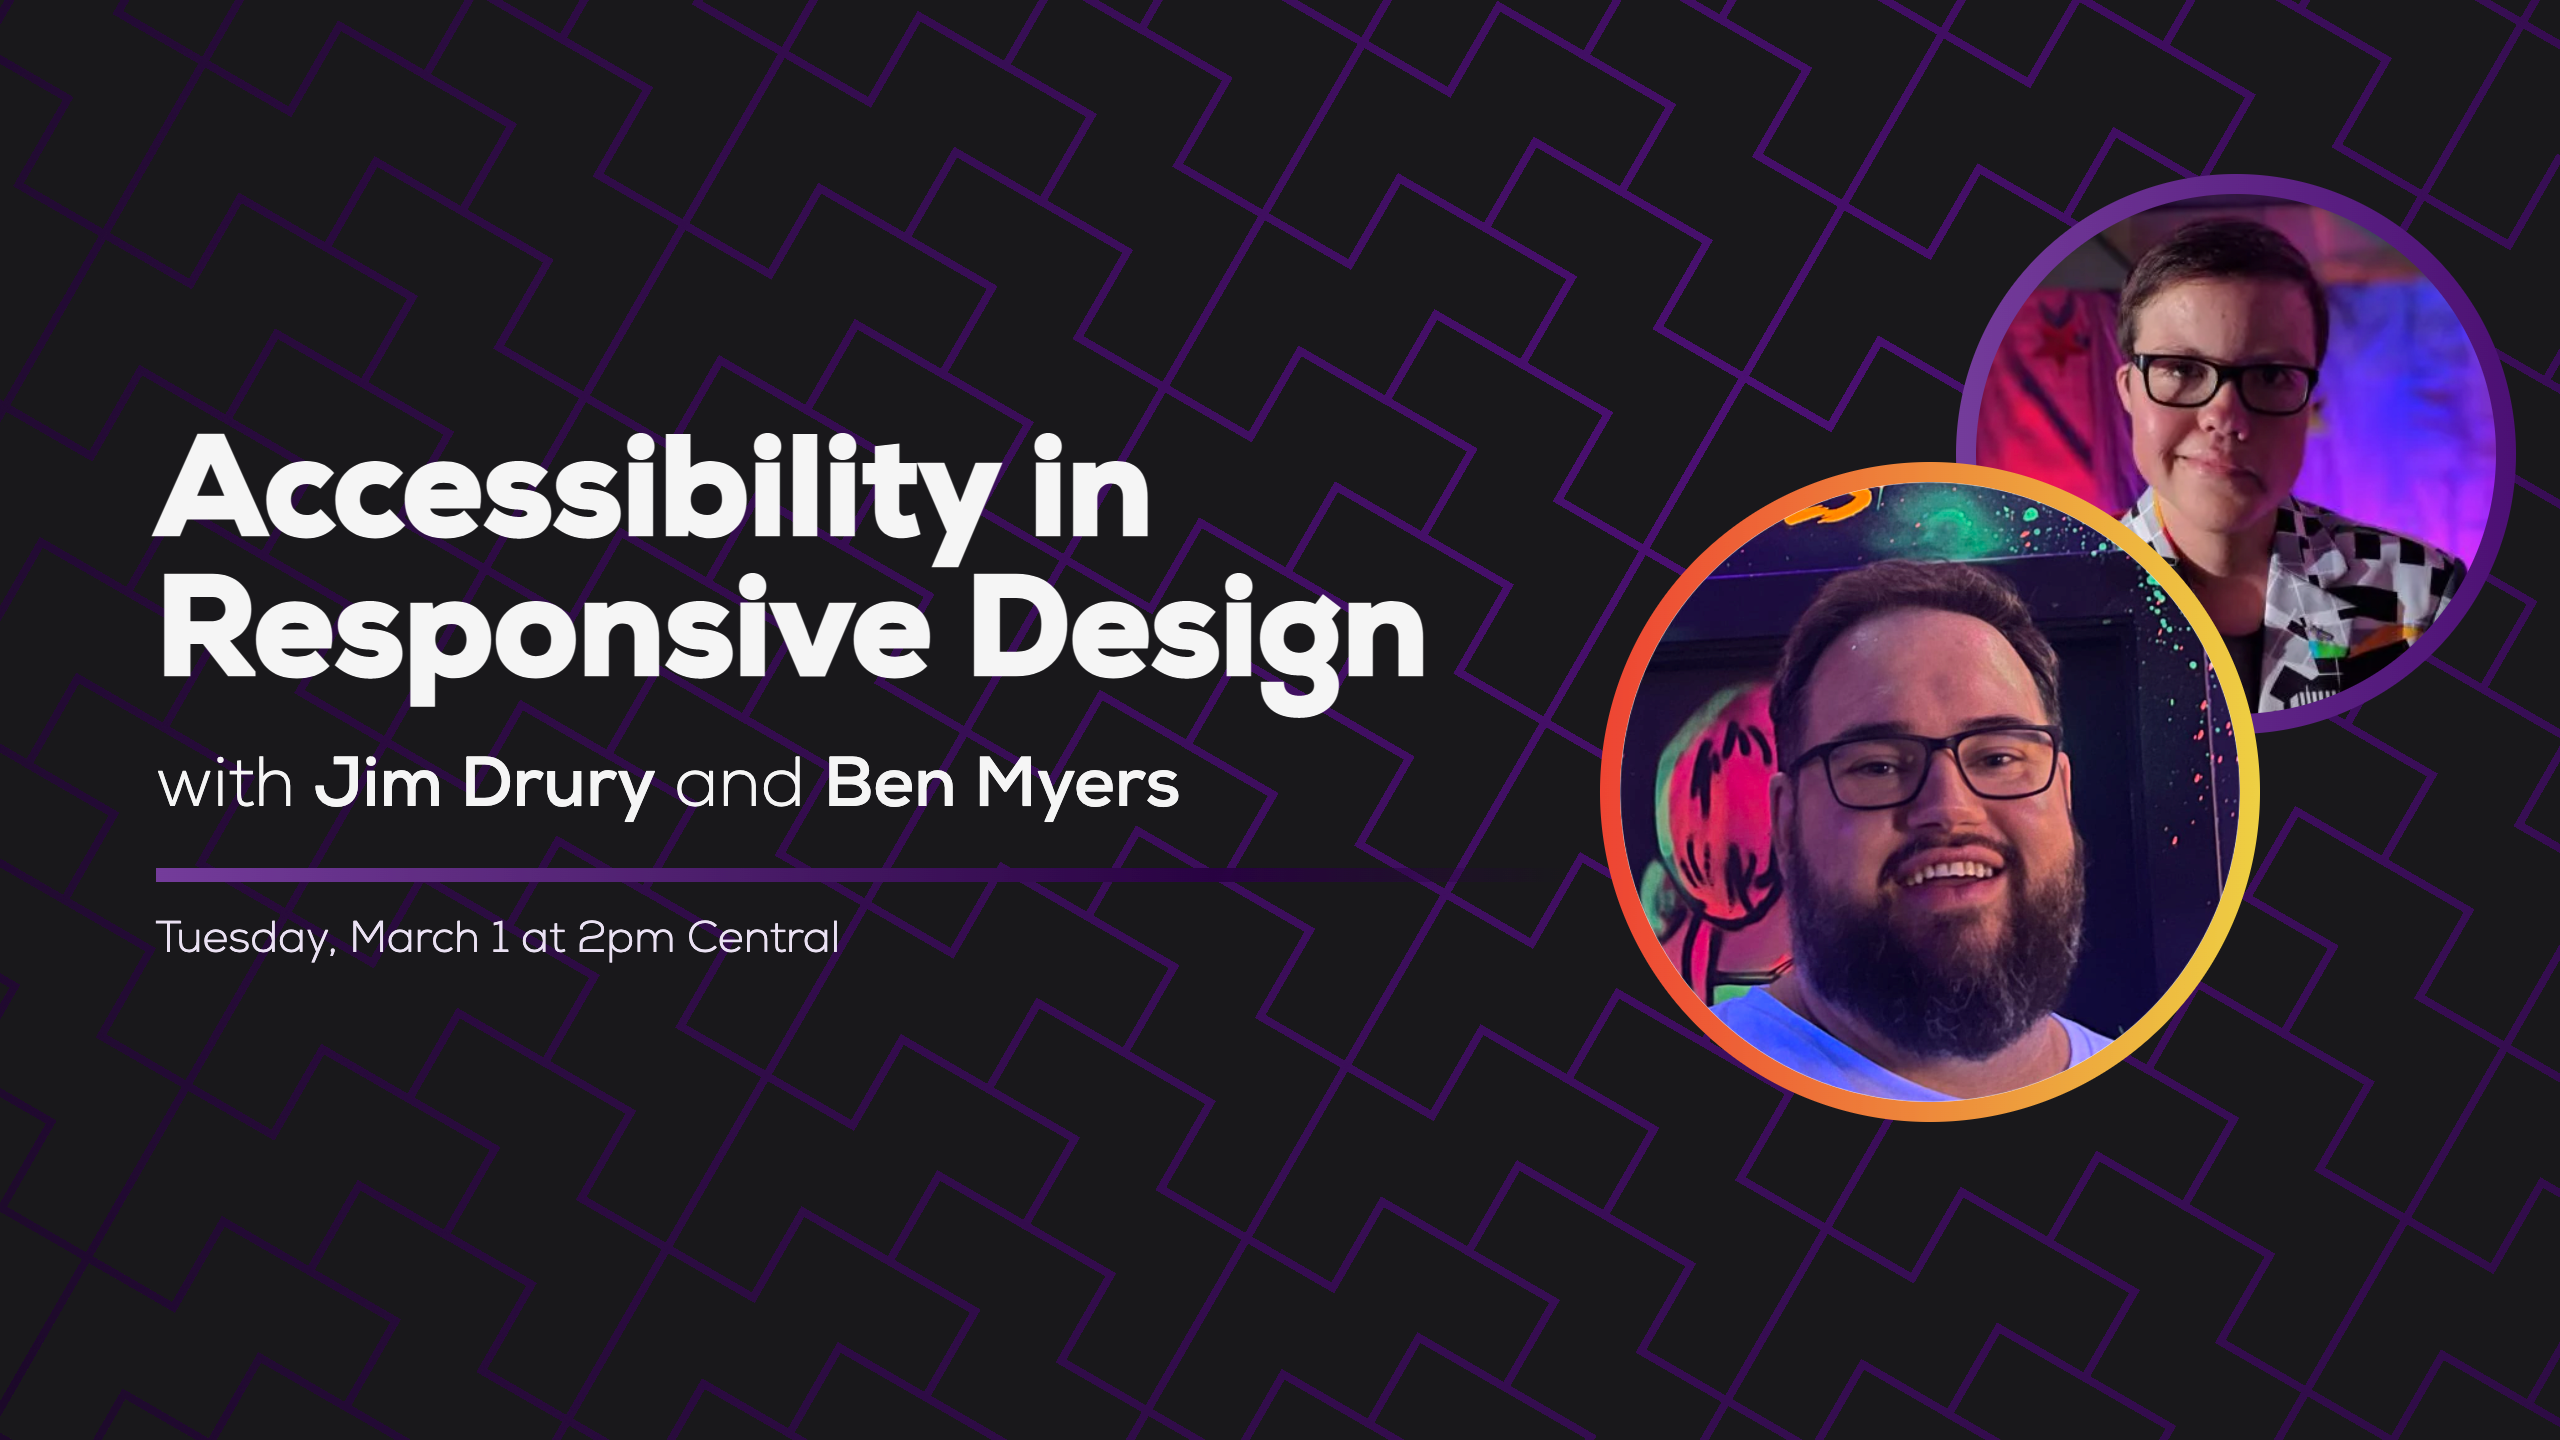
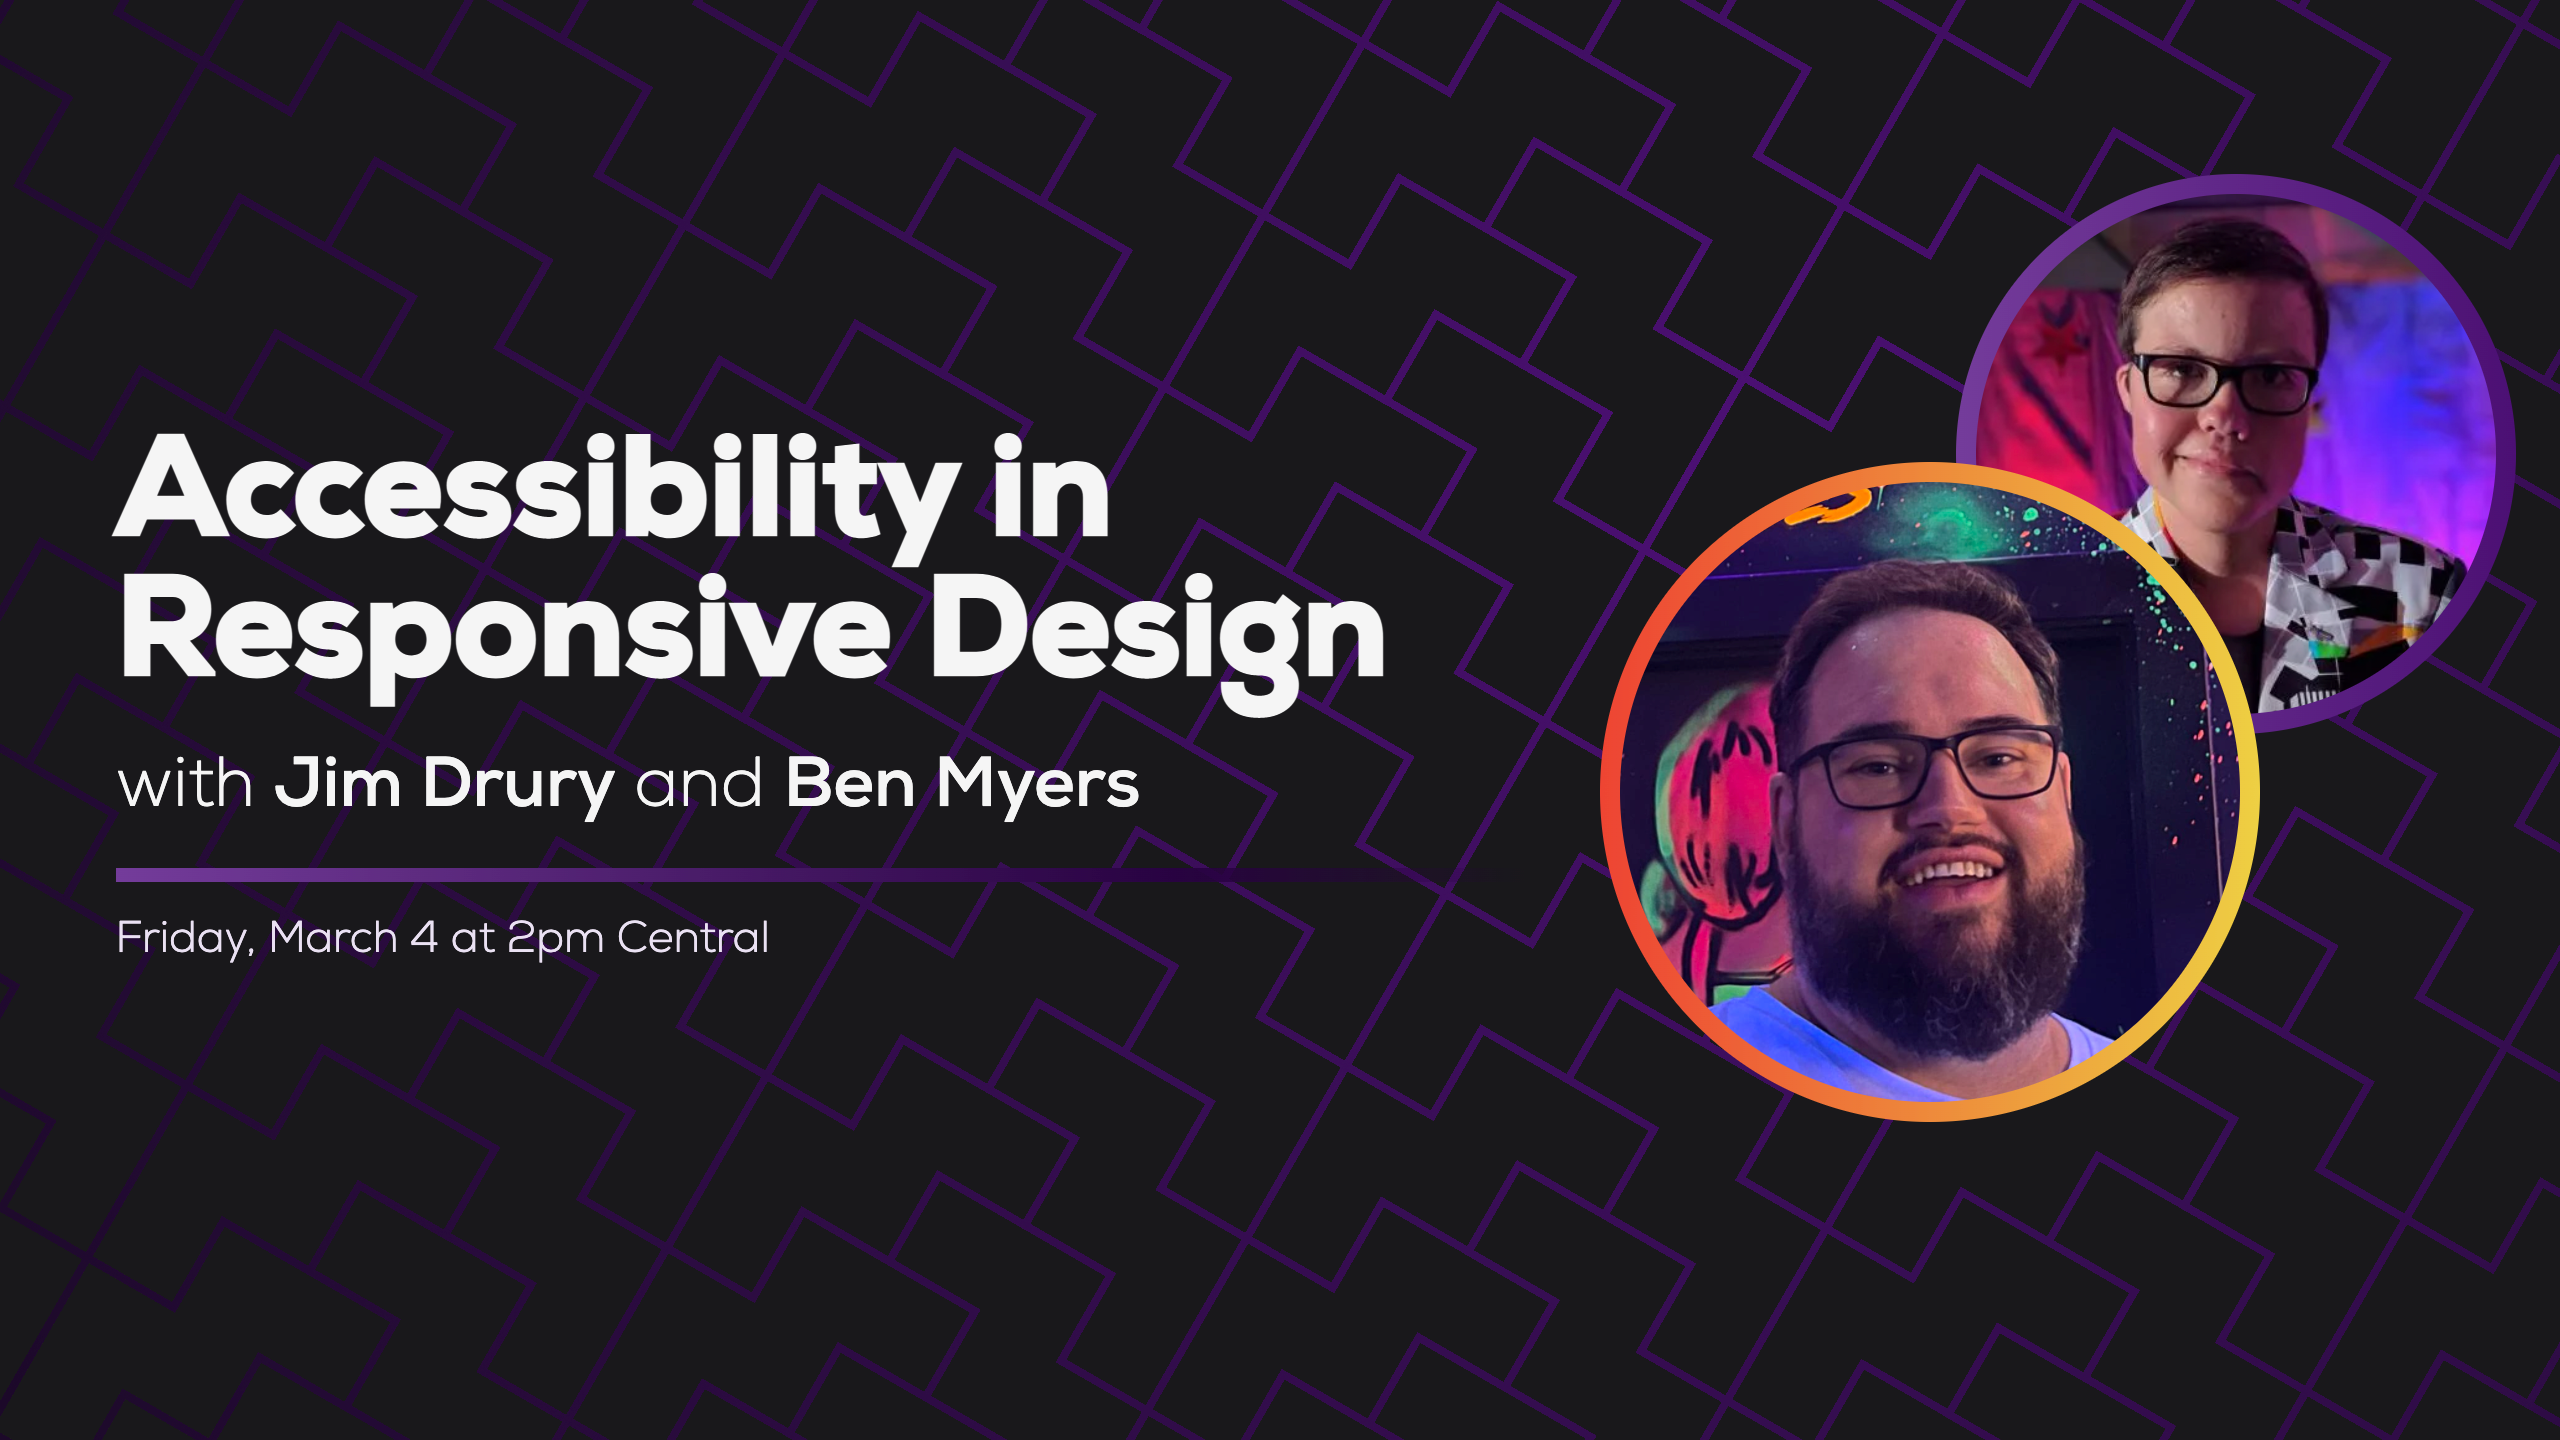
Update Jim's thumbnail

Changed region(s): [[0.0312, 0.2812, 0.5625, 0.5625], [0.0625, 0.625, 0.3125, 0.6875], [0.0312, 0.5938, 0.0625, 0.625]]

diff --git a/src/thumbnail.html b/src/thumbnail.html
@@ -136,12 +136,12 @@
 <body>
 	<div class="flex">
 		<header>
-			<h1>Dive Into<br/>Bedrock Layout</h1>
-			<p id="hosts">with <b>Travis Waith-Mair</b> and <b>Ben Myers</b></p>
-			<footer>Tuesday, February 22 at 2pm Central</footer>
+			<h1>Accessibility in<br/>Responsive Design</h1>
+			<p id="hosts">with <b>Jim Drury</b> and <b>Ben Myers</b></p>
+			<footer>Friday, March 4 at 2pm Central</footer>
 		</header>
 		<main>
-			<img id="avatar-1" src="{{ 'Travis Waith-Mair' | avatar }}" alt="" />
+			<img id="avatar-1" src="https://res.cloudinary.com/bendmyers/image/upload/w_1000,c_thumb,ar_1:1,g_faces/v1644015645/Some%20Antics%20Avatars/Jim%20Drury.jpg" alt="" />
 			<div class="ring"></div>
 			<img id="avatar-2" src="{{ 'Ben Myers' | avatar }}" alt="" />
 			<div class="ring"></div>
